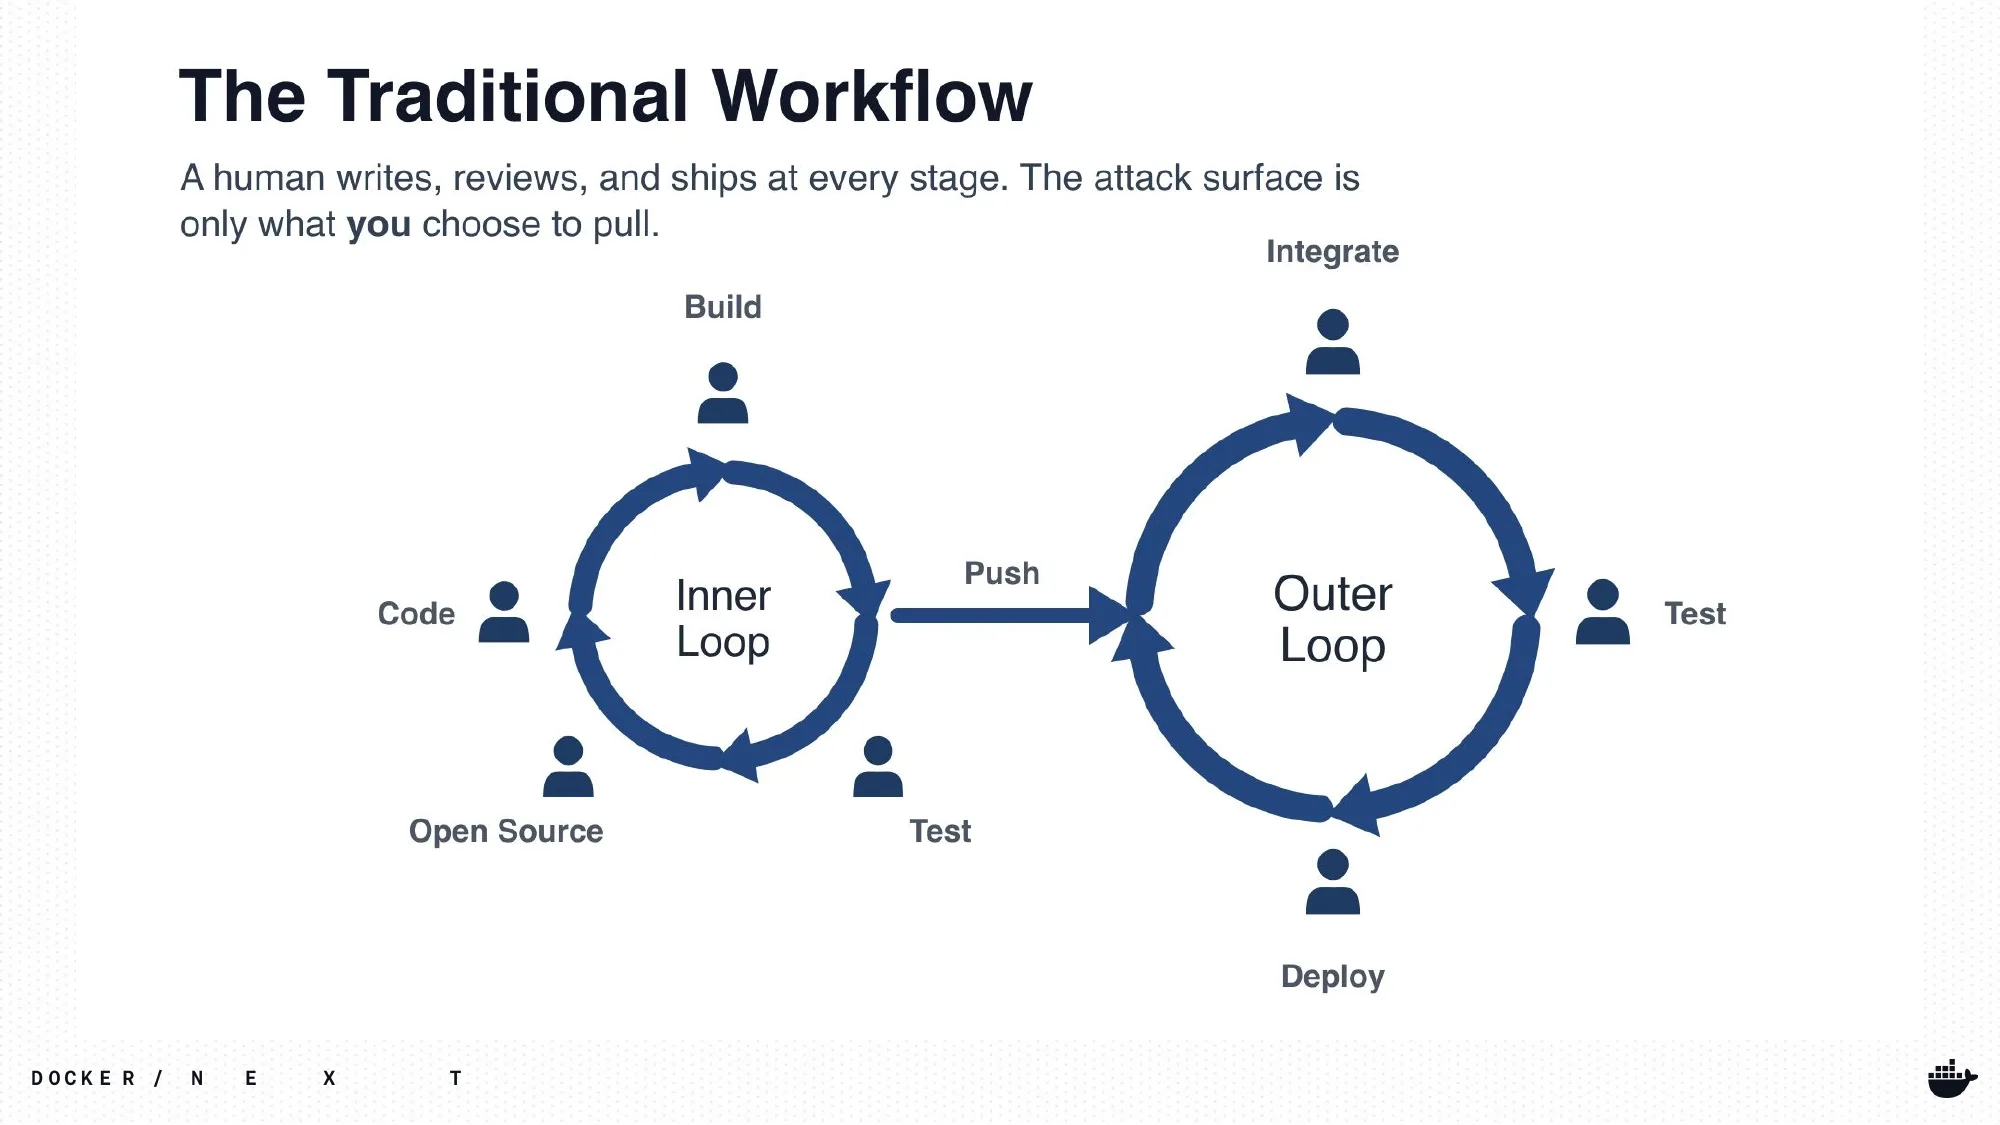
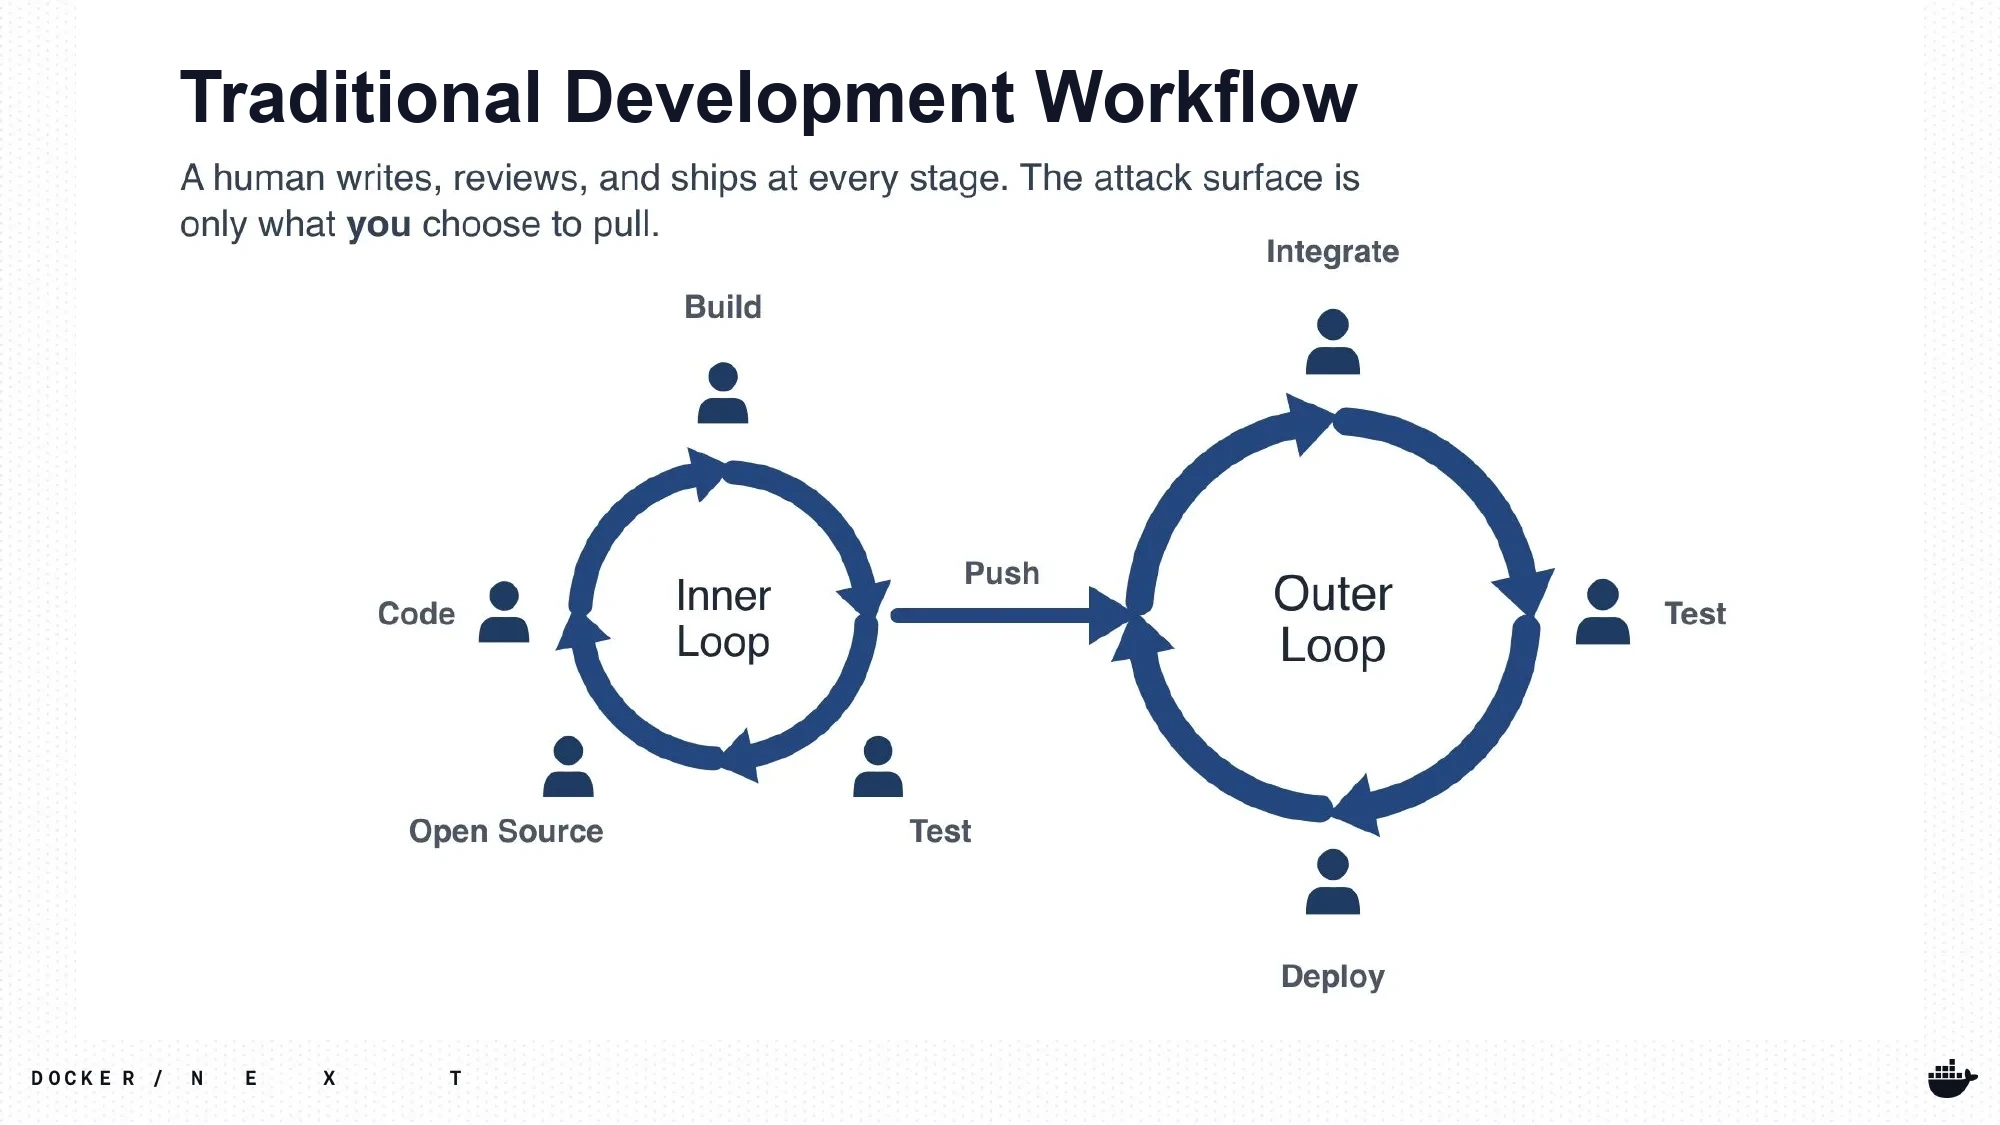
Retitle workshop slide 9 to "Traditional Development Workflow"
Edit the baked title in slide-10.webp (matching Arial Bold font, navy
ink, position) and update its alt text to match.

Changed region(s): [[0.093, 0.0622, 0.682, 0.1244]]

diff --git a/labs/securing-the-agentic-stack-slides/deck.md b/labs/securing-the-agentic-stack-slides/deck.md
@@ -101,7 +101,7 @@ Note: Here's how the session is structured. We start where it matters most — A
 
 <!-- chrome: false -->
 
-<img src="assets/slide-10.webp" alt="Slide 10" width="1600" height="900" loading="lazy" decoding="async" style="position:absolute;inset:0;width:100%;height:100%;max-width:none;max-height:none;object-fit:fill" />
+<img src="assets/slide-10.webp" alt="Traditional Development Workflow" width="1600" height="900" loading="lazy" decoding="async" style="position:absolute;inset:0;width:100%;height:100%;max-width:none;max-height:none;object-fit:fill" />
 
 ---
 
